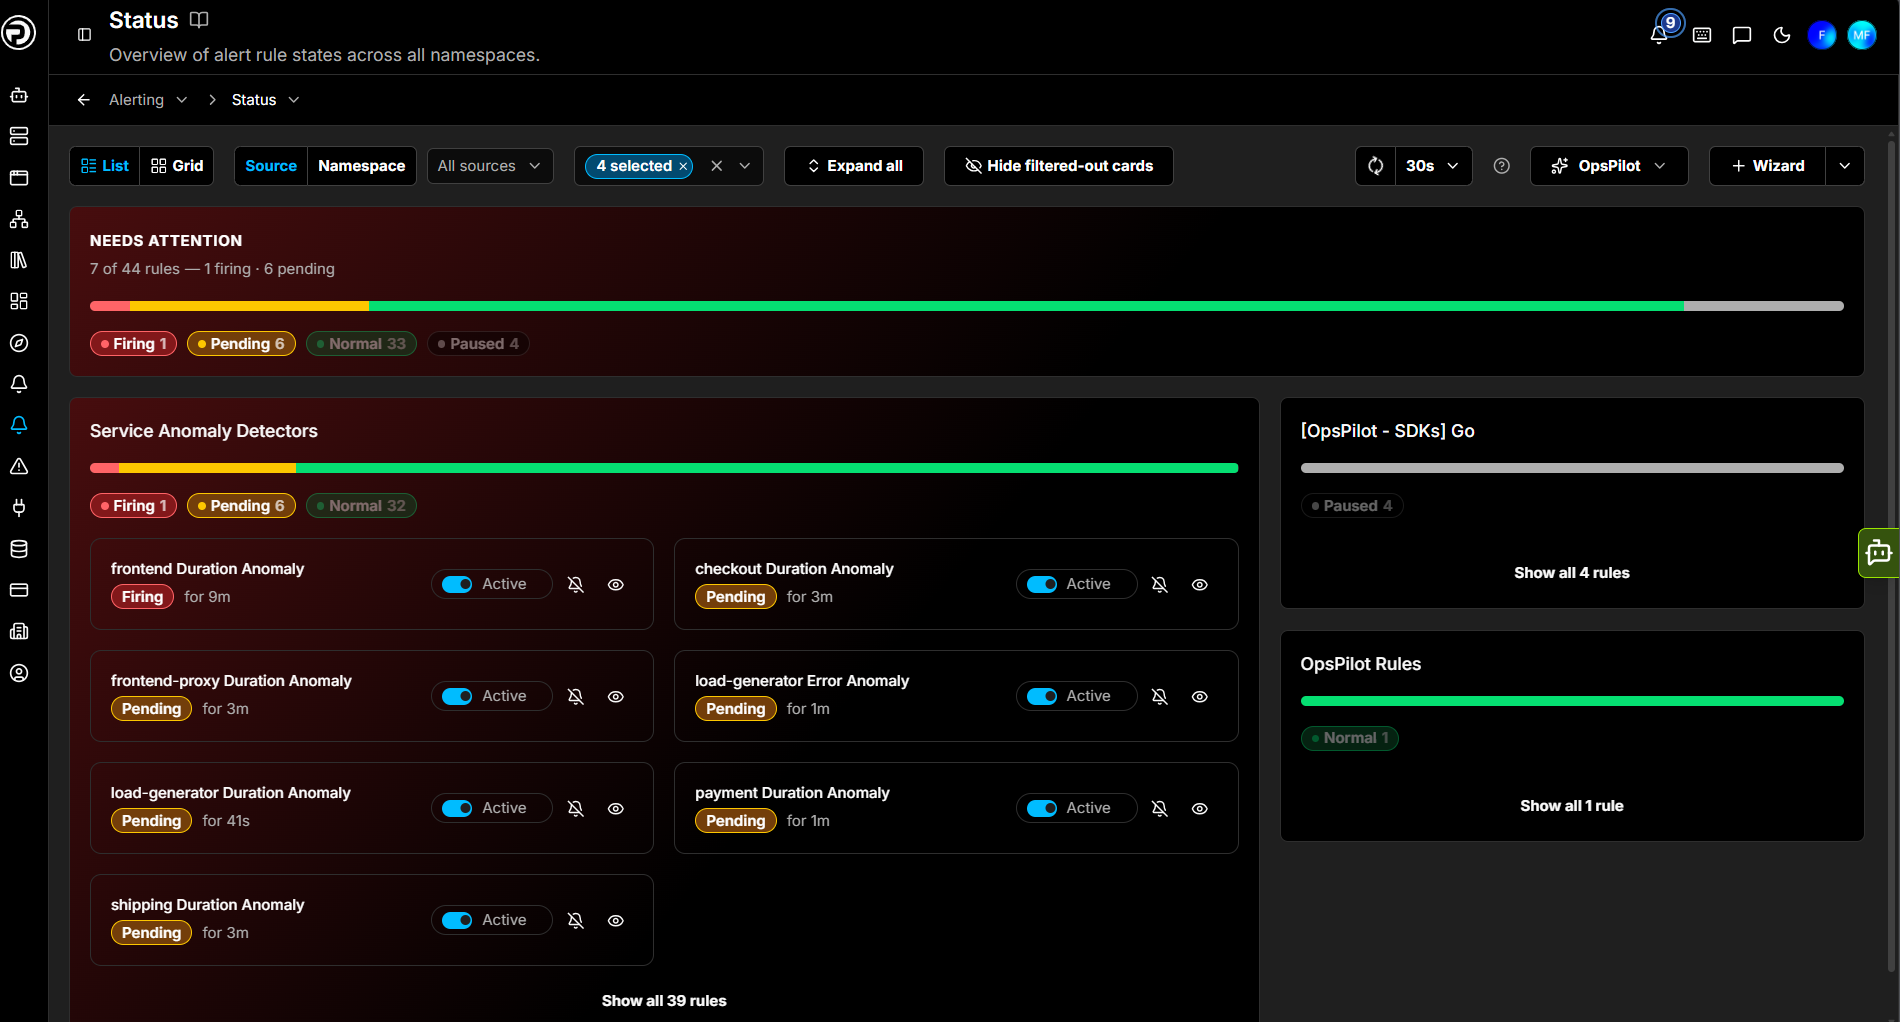
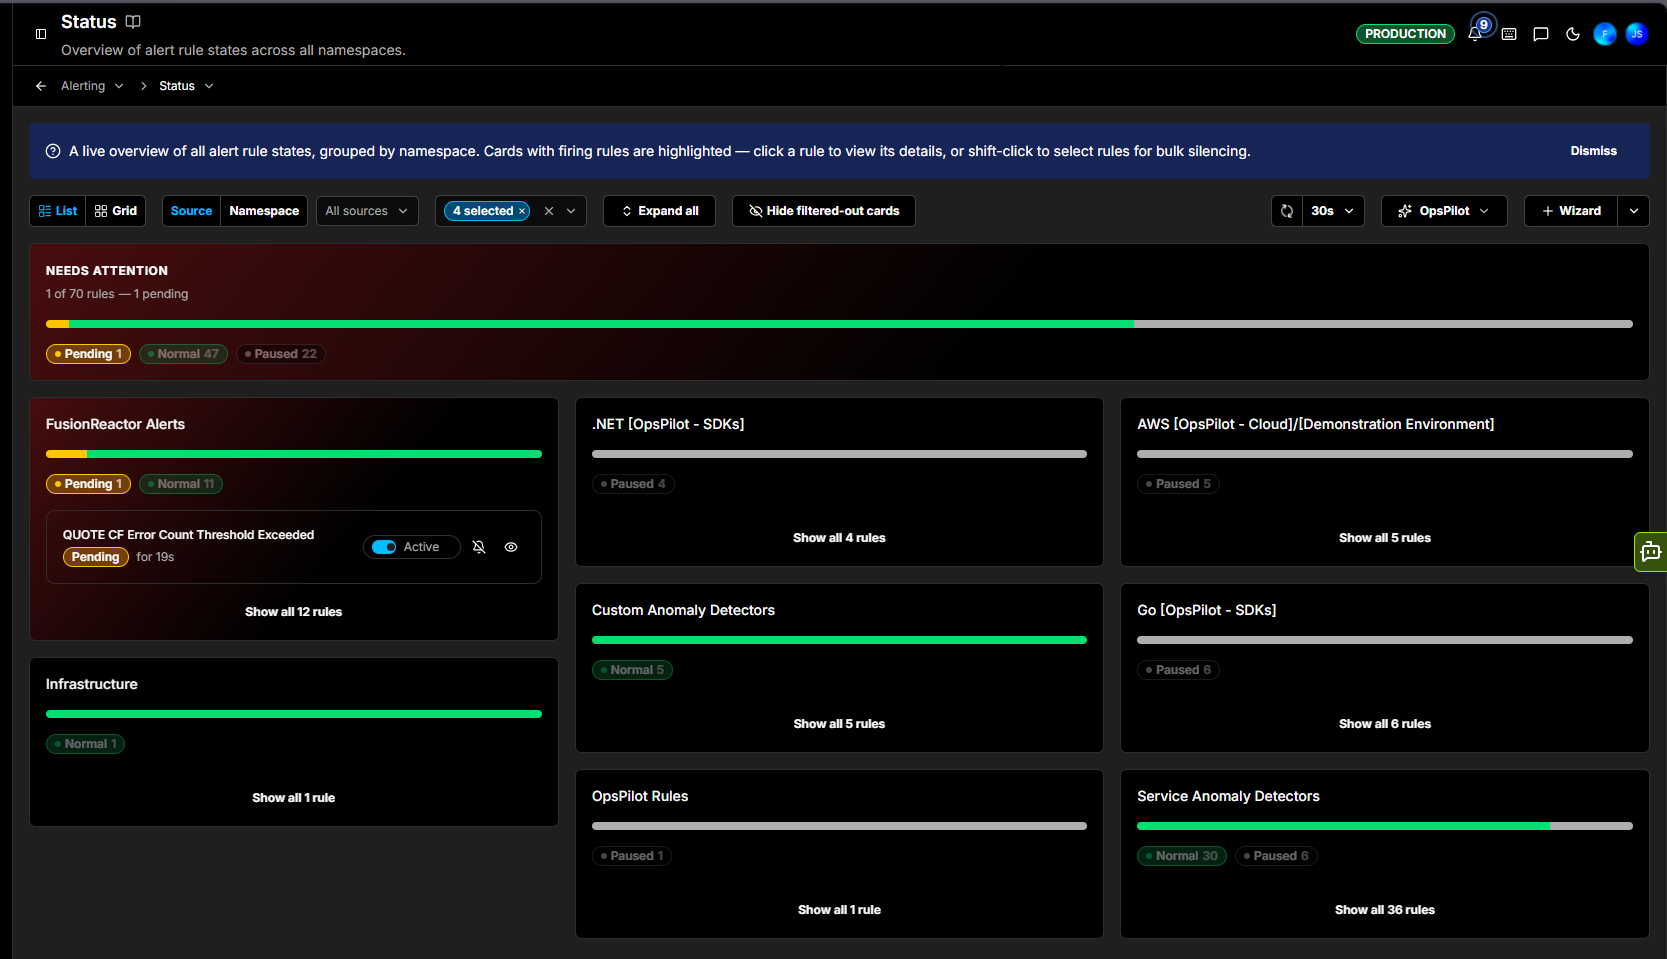
Add an Alerting overview page and reconcile alerting docs with the UI (#50)
Adds a landing page for the Alerting section, which previously had none.
It lists every alerting page with what it is for, promotes the rules vs
detectors explanation out of rules.md, and documents the controls shared
across the section once, instead of repeating them on each page.

Reconciles Status, Alert Rules and Service Anomaly Detectors against the
current UI:

- Status: the needs-attention band wording and its two states, state
  chips only appearing for states that are present, and cards holding
  rules that need attention being highlighted and promoted to the front
- Alert Rules: renamed to match the UI, four state counters rather than
  five, sortable column headers, Labels and the Notifies empty state in
  the expanded view, and the real namespace and group filters
- Service Anomaly Detectors: detector badge states and the last
  evaluation placeholder for paused services

Also switches British spellings to American per the style guide, and
replaces the Status screenshot.

diff --git a/docs/Data-insights/Features/New-alerting/rules.md b/docs/Data-insights/Features/New-alerting/rules.md
@@ -1,32 +1,33 @@
-# Rules
+# Alert Rules
 
-A well-configured alert rule is the difference between knowing about a problem before your users do and finding out from a support ticket. The Rules page is where you build, manage, and investigate every alert rule in your environment - with a live view of what's firing, what's pending, and what's healthy, all in one place.
+A well-configured alert rule is the difference between knowing about a problem before your users do and finding out from a support ticket. The Alert Rules page is where you build, manage, and investigate every alert rule in your environment - with a live view of what's firing, what's pending, and what's healthy, all in one place.
 
-Navigate to **Alerting > Rules** to open it.
+Navigate to **Alerting > Alert Rules** to open it.
 
 !!! info "Rules vs detectors"
-    **Rules** are static checks - they run on a fixed schedule against fixed thresholds, best for known conditions with clear boundaries (like system CPU or allocated memory). **[Detectors](service-anomaly-detectors.md)** use AI to learn normal behaviour and flag anomalies automatically, so they adapt as your system changes.
+    **Rules** are static checks - they run on a fixed schedule against fixed thresholds, best for known conditions with clear boundaries (like system CPU or allocated memory). **[Detectors](service-anomaly-detectors.md)** use AI to learn normal behavior and flag anomalies automatically, so they adapt as your system changes.
 
 ## The rules list
 
 ![Screenshot](/Data-insights/Features/images/Alerting/rule-table.png)
 
-Rules are displayed with four state counters at the top:
+Four state counters sit above the list:
 
 | State | Description |
 |---|---|
 | **Firing** | The alert condition is currently met |
 | **Pending** | The condition is met but the pending period has not yet elapsed |
 | **Normal** | The rule is evaluating and its condition is not met |
-| **Normal (Missingseries)** | The rule returned no data - the query matched no series. The rule remains Normal but flags that the data source returned nothing |
 | **Paused** | The rule is paused and not being evaluated |
+
+A state can carry a sub-reason, which appears in the rule's state history rather than in the counters - **Normal (Missingseries)**, for example, means the rule returned no data because the query matched no series. The rule remains Normal, but flags that the data source returned nothing.
 
 ### Views
 
 Switch between **Table** and **Tree** view using the buttons in the toolbar:
 
-- **Table** - a flat list of all rules with their state, folder, and group
-- **Tree** - rules grouped by folder and evaluation group, useful for seeing how rules are organised
+- **Table** - a flat list of all rules with their state, namespace, and group
+- **Tree** - rules grouped by namespace and evaluation group, useful for seeing how rules are organized
 
 Use **Collapse all** to fold all groups at once in Tree view.
 
@@ -38,10 +39,12 @@ The table has the following columns:
 |---|---|
 | **State** | Current state of the rule (Firing, Pending, Normal, Paused) |
 | **Name** | The alert rule name |
-| **Namespace** | The folder the rule belongs to |
+| **Namespace** | The namespace the rule belongs to |
 | **Group** | The evaluation group and its interval (such as, `auto-1m`) |
-| **Last evaluation** | When the rule was last evaluated |
+| **Last evaluation** | When the rule was last evaluated (such as, *29 Sept, 12:43*) |
 | **Actions** | A notification count, an **Active** toggle to enable or pause the rule, and buttons to view (eye), edit, and open more options |
+
+The **State**, **Name**, **Namespace**, and **Group** headers are sortable - click one to order the list by it.
 
 ### Expanding a rule
 
@@ -60,7 +63,8 @@ The **Dashboard** and **Runbook** buttons (top right of the expanded view) open 
 | **Data source** | The data source the rule queries |
 | **On no data** | What state the rule enters when the query returns no data |
 | **On query error** | What state the rule enters when the query fails |
-| **Notifies** | The contact points configured to receive notifications |
+| **Labels** | The rule's labels as name/value chips (such as, `severity = warning`) - these are what [notification policies](notification-policy.md) route on. Only shown when the rule has labels |
+| **Notifies** | The contact points configured to receive notifications, each shown as a card with its name and type. Reads *None configured* when the rule has none |
 | **Instances** | The matched instances with a firing/pending breakdown and a **Firing only** toggle. Each row shows the instance's labels, its state and when it last fired, and a **Logs** button to jump to its logs |
 
 ![Screenshot](/Data-insights/Features/images/Alerting/rule-expanded.png)
@@ -112,7 +116,7 @@ A row of summary cards sits below the header:
 
 - **Sort** - order rules by State, Name, or other fields. Toggle ascending/descending with the arrow button
 - **Search** - find rules by name
-- **Filters** - filter by folder, evaluation group, state, or label
+- **Filters** - **All namespaces** and **All groups** dropdowns narrow the list to a single namespace or evaluation group
 - **Hide anomaly detectors** - toggle on to show only static rules and hide anomaly detectors from the list
 
 ### OpsPilot
@@ -189,7 +193,7 @@ The **Evaluation** section controls how the rule runs:
 
 #### Namespace
 
-Expand **Namespace** and choose the **namespace** where the rule is stored. Namespaces keep rules organised and control access.
+Expand **Namespace** and choose the **namespace** where the rule is stored. Namespaces keep rules organized and control access.
 
 #### Rule name
 

diff --git a/docs/Data-insights/Features/New-alerting/overview.md b/docs/Data-insights/Features/New-alerting/overview.md
@@ -1,0 +1,43 @@
+# Alerting
+
+Alerting tells you when something needs attention - ideally before your users do. It covers the static rules you define, the AI detectors that learn what normal looks like for you, and the notification setup that decides who hears about it and when.
+
+Navigate to **Alerting** in the left-hand menu to open it.
+
+## What's in this section
+
+| Page | Use it to |
+|---|---|
+| [Status](status.md) | See every alert rule's state at a glance, and find what needs attention first |
+| [Alert Rules](rules.md) | Build, manage, and investigate static alert rules |
+| [Annotation Templates](annotation-templates.md) | Write alert messages that carry live values from the query that fired |
+| [Recording Rules](recording-rules.md) | Pre-compute expensive queries and save the result as a new metric |
+| [Service Anomaly Detectors](service-anomaly-detectors.md) | Tune the detectors created automatically for each instrumented service |
+| [Custom Anomaly Detectors](custom-anomaly-detectors.md) | Run anomaly detection against your own PromQL series |
+| [Contact Points](contact-points.md) | Define where notifications are sent |
+| [Notification Policy](notification-policy.md) | Route each alert to the right contact point |
+| [Silences](silences.md) | Suppress notifications temporarily |
+| [Time Intervals](time-intervals.md) | Suppress notifications on a schedule, such as outside working hours |
+| [Troubleshooting](troubleshooting.md) | Diagnose why an alert did or did not fire |
+
+## Rules or detectors?
+
+**Rules** are static checks - they run on a fixed schedule against fixed thresholds, best for known conditions with clear boundaries, like system CPU or allocated memory.
+
+**Detectors** use AI to learn normal behavior and flag anomalies automatically, so they adapt as your system changes. Use them where a fixed threshold would be guesswork - set too tight it produces false alarms, set too loose it misses real problems.
+
+The two are not exclusive. Most environments use both.
+
+## Common controls
+
+Every alerting page shares the same set of controls:
+
+- **Breadcrumbs** at the top of the page - **Alerting › Status**, for example - move between the alerting pages. Each breadcrumb has a dropdown, so you can go directly to another page.
+- **An introductory banner** describes what the page does. Click **Dismiss** to hide it.
+- **A refresh control** at the right of the toolbar sets how often the page updates (such as, **30s**), with a button beside it to refresh immediately.
+- **An OpsPilot dropdown**, on most pages, offers AI shortcuts for the page you are viewing - help writing a rule, an explanation of what is firing, or suggestions for what to add.
+
+---
+
+!!! question "Need more help?"
+    Contact support in the chat bubble and let us know how we can assist.

diff --git a/docs/Data-insights/Features/New-alerting/status.md b/docs/Data-insights/Features/New-alerting/status.md
@@ -8,7 +8,9 @@ Navigate to **Alerting > Status** to open it.
 
 ## Needs attention
 
-A summary band at the top leads with what matters: how many rules **need attention** out of the total, and how many are currently **firing** and **pending** (for example, *7 of 44 rules - 1 firing, 6 pending*). A health bar shows the split across states, with a count for each:
+A summary band at the top leads with what matters: how many rules **need attention** out of the total, and which states they are in - for example, **NEEDS ATTENTION**, *1 of 70 rules — 1 pending*. When everything is healthy the band reads *0 of 70 rules need attention*; when something needs attention, the band is highlighted.
+
+Below it, a health bar shows the split across states, with a chip and count for each. Only states that have rules in them appear - an account with nothing firing or pending shows just **Normal** and **Paused**.
 
 | State | Meaning |
 |---|---|
@@ -35,7 +37,9 @@ Controls across the top shape how the page is laid out:
 
 ## Groups and rules
 
-Rules are organised into cards - by **namespace** or by **source**, depending on the toggle. Each group card shows its name, a health bar, and a count for each state, with its rules laid out inside.
+Rules are organized into cards - by **namespace** or by **source**, depending on the toggle. Each group card shows its name, a health bar, and a chip with a count for each state present.
+
+A card holding rules that need attention is **highlighted** and moved to the front of the page, and those rules are listed on the card without you expanding it. Healthy rules stay folded away behind **Show all N rules**, so what needs looking at is what you see first.
 
 Each rule shows:
 
@@ -49,7 +53,7 @@ When a group has more rules than fit, click **Show all N rules** to expand it, a
 
 Shift-click rules to select more than one at a time, then silence the whole selection in one go. See [Silences](silences.md).
 
-The **List** view stacks the groups and shows their rule cards inline, while the **Grid** view lays the groups out as compact cards in a multi-column grid - each summarising its state at a glance, and expandable to reveal the rules inside.
+The **List** view stacks the groups and shows their rule cards inline, while the **Grid** view lays the groups out as compact cards in a multi-column grid - each summarizing its state at a glance, and expandable to reveal the rules inside.
 
 ## Creating from Status
 

diff --git a/docs/Data-insights/Features/New-alerting/service-anomaly-detectors.md b/docs/Data-insights/Features/New-alerting/service-anomaly-detectors.md
@@ -1,6 +1,6 @@
 # Service Anomaly Detectors
 
-Picking the right threshold is hard - too tight and you drown in false alarms, too loose and you miss the real problem. **Anomaly detectors** flag unusual behaviour in your services automatically, so you get meaningful alerts without hand-tuning numbers.
+Picking the right threshold is hard - too tight and you drown in false alarms, too loose and you miss the real problem. **Anomaly detectors** flag unusual behavior in your services automatically, so you get meaningful alerts without hand-tuning numbers.
 
 **Service detectors** are auto-created for each instrumented service. To define detectors against your own PromQL queries instead, see [Custom Anomaly Detectors](custom-anomaly-detectors.md).
 
@@ -15,6 +15,8 @@ Each instrumented service automatically gets three detectors, shown as **R**, **
 - **Rate** (R) - request rate anomalies
 - **Error** (E) - error rate anomalies
 - **Latency** (D) - response time anomalies (also shown as *Duration* on the Status page)
+
+The badges are filled while the service's detectors are running, and grayed out while they are paused. **Last evaluation** reads a timestamp (such as, *29 Sept, 13:01*) for a running service, and **—** for a paused one.
 
 Each row in the service list shows the service name, its **Detectors** (R/E/D), the **Last evaluation** time, and actions: a notification count, an **Active** toggle to enable or pause the service's detectors, an **Open dashboard** button, and a **delete** button. Expand a row to see and tune the individual detectors.
 

diff --git a/docs/Data-insights/Features/New-alerting/troubleshooting.md b/docs/Data-insights/Features/New-alerting/troubleshooting.md
@@ -23,7 +23,7 @@ This page covers common issues when setting up and operating OpsPilot alerting, 
 
 **Fix:**
 
-- Navigate to the rule and check the **Pending period** value under **Set evaluation behaviour**.
+- Navigate to the rule and check the **Pending period** value under **Set evaluation behavior**.
 - If you want the alert to fire immediately, set the pending period to `0s`.
 - If the metric is intermittently crossing the threshold, consider whether the pending period is appropriate or whether the condition itself needs adjusting.
 
